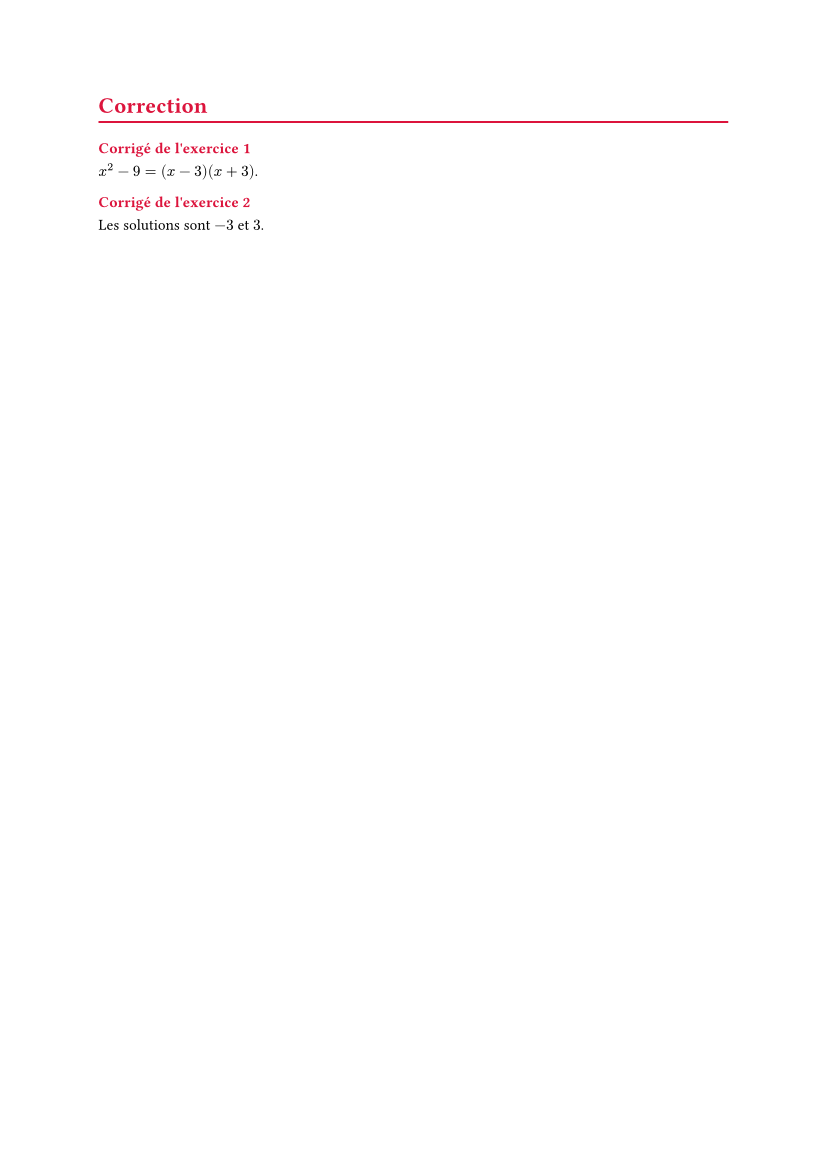
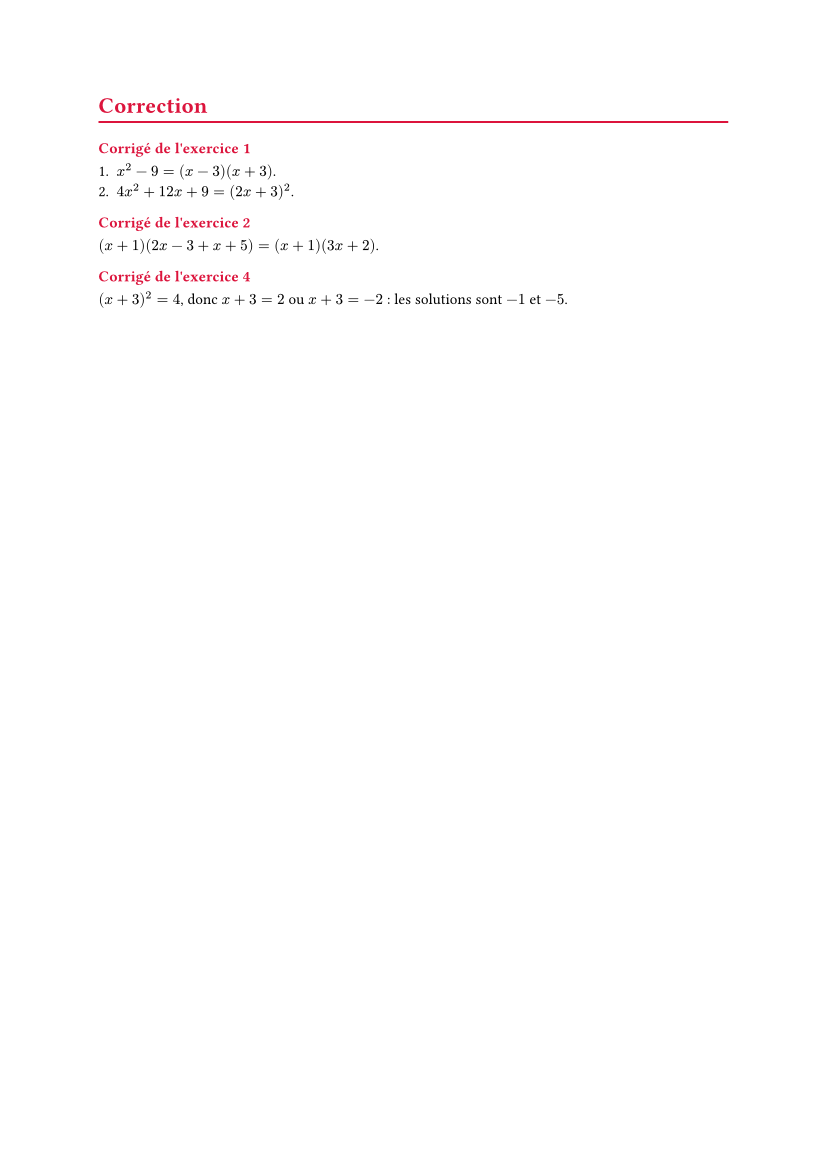
README : démarrage rapide plus complet, feuille de route centrée

Changed region(s): [[0.1209, 0.1232, 0.3325, 0.2772], [0.5139, 0.2464, 0.6046, 0.2772]]

diff --git a/README.md b/README.md
@@ -16,7 +16,7 @@ titre, corrigés affichés ou non d'un seul réglage, et un mode « interro »
 ProfMaquette. See the [documentation, in French](https://amjmeyer.github.io/profmaquette-minimal/).*
 
 <p align="center">
-  <img src="docs/exemple-1.png" width="45%" alt="Page 1 du démarrage rapide ci-dessous : cartouche CH 02 Suites numériques 1 C, feuille de route, exercices encadrés avec clé et haltère, bloc Automatismes">
+  <img src="docs/exemple-1.png" width="45%" alt="Page 1 du démarrage rapide ci-dessous : cartouche CH 02 Second degré 1 C, feuille de route centrée, exercices encadrés avec clé, haltère, source, calculatrice barrée et zone Seyes avec sa réponse, bloc Automatismes">
   <img src="docs/exemple-2.png" width="45%" alt="Page 2 du démarrage rapide : corrigés regroupés en fin de fiche">
 </p>
 
@@ -29,25 +29,45 @@ Le code ci-dessous donne exactement les deux pages ci-dessus.
 
 #show: maquette.with(
   position-corriges: "fin",
-  titre-maquette: (gauche: "CH 02", centre: "Suites numériques", droite: "1 C"),
+  titre-maquette: (gauche: "CH 02", centre: "Second degré", droite: "1 C"),
 )
 
-#afficher-fdr
+#align(center, afficher-fdr)
 
 #thematique[Factoriser]
 #exercice(titre: "Identités remarquables", entrainement: "https://exemple.fr")[
-  Factoriser $x^2 - 9$.
+  Factoriser :
+  + $x^2 - 9$ ;
+  + $4x^2 + 12x + 9$.
 ]
 #corrige[
-  $x^2 - 9 = (x - 3)(x + 3)$.
+  + $x^2 - 9 = (x - 3)(x + 3)$.
+  + $4x^2 + 12x + 9 = (2x + 3)^2$.
+]
+
+#exercice(titre: "Facteur commun", source: "Manuel p. 42", calculatrice: false)[
+  Factoriser $(x + 1)(2x - 3) + (x + 1)(x + 5)$.
+]
+#corrige[
+  $(x + 1)(2x - 3 + x + 5) = (x + 1)(3x + 2)$.
 ]
 
 #thematique[Résoudre]
+#exercice(titre: "Équation produit")[
+  Résoudre $(x - 3)(x + 3) = 0$.
+  #seyes(2, afficher: true)[Un produit est nul si l'un de ses facteurs l'est :
+    les solutions sont $-3$ et $3$.]
+]
+
 #exercice(titre: "Pour aller plus loin", route: false)[
-  Résoudre $x^2 - 9 = 0$.
+  Résoudre $x^2 + 6x + 5 = 0$ en écrivant $x^2 + 6x + 5 = (x + 3)^2 - 4$.
 ]
 #corrige[
-  Les solutions sont $-3$ et $3$.
+  $(x + 3)^2 = 4$, donc $x + 3 = 2$ ou $x + 3 = -2$ : les solutions sont $-1$ et $-5$.
+]
+
+#exercice(titre: "À vous de jouer", pas-corrige: true)[
+  Inventer un trinôme dont les racines sont $1$ et $5$.
 ]
 ```
 
